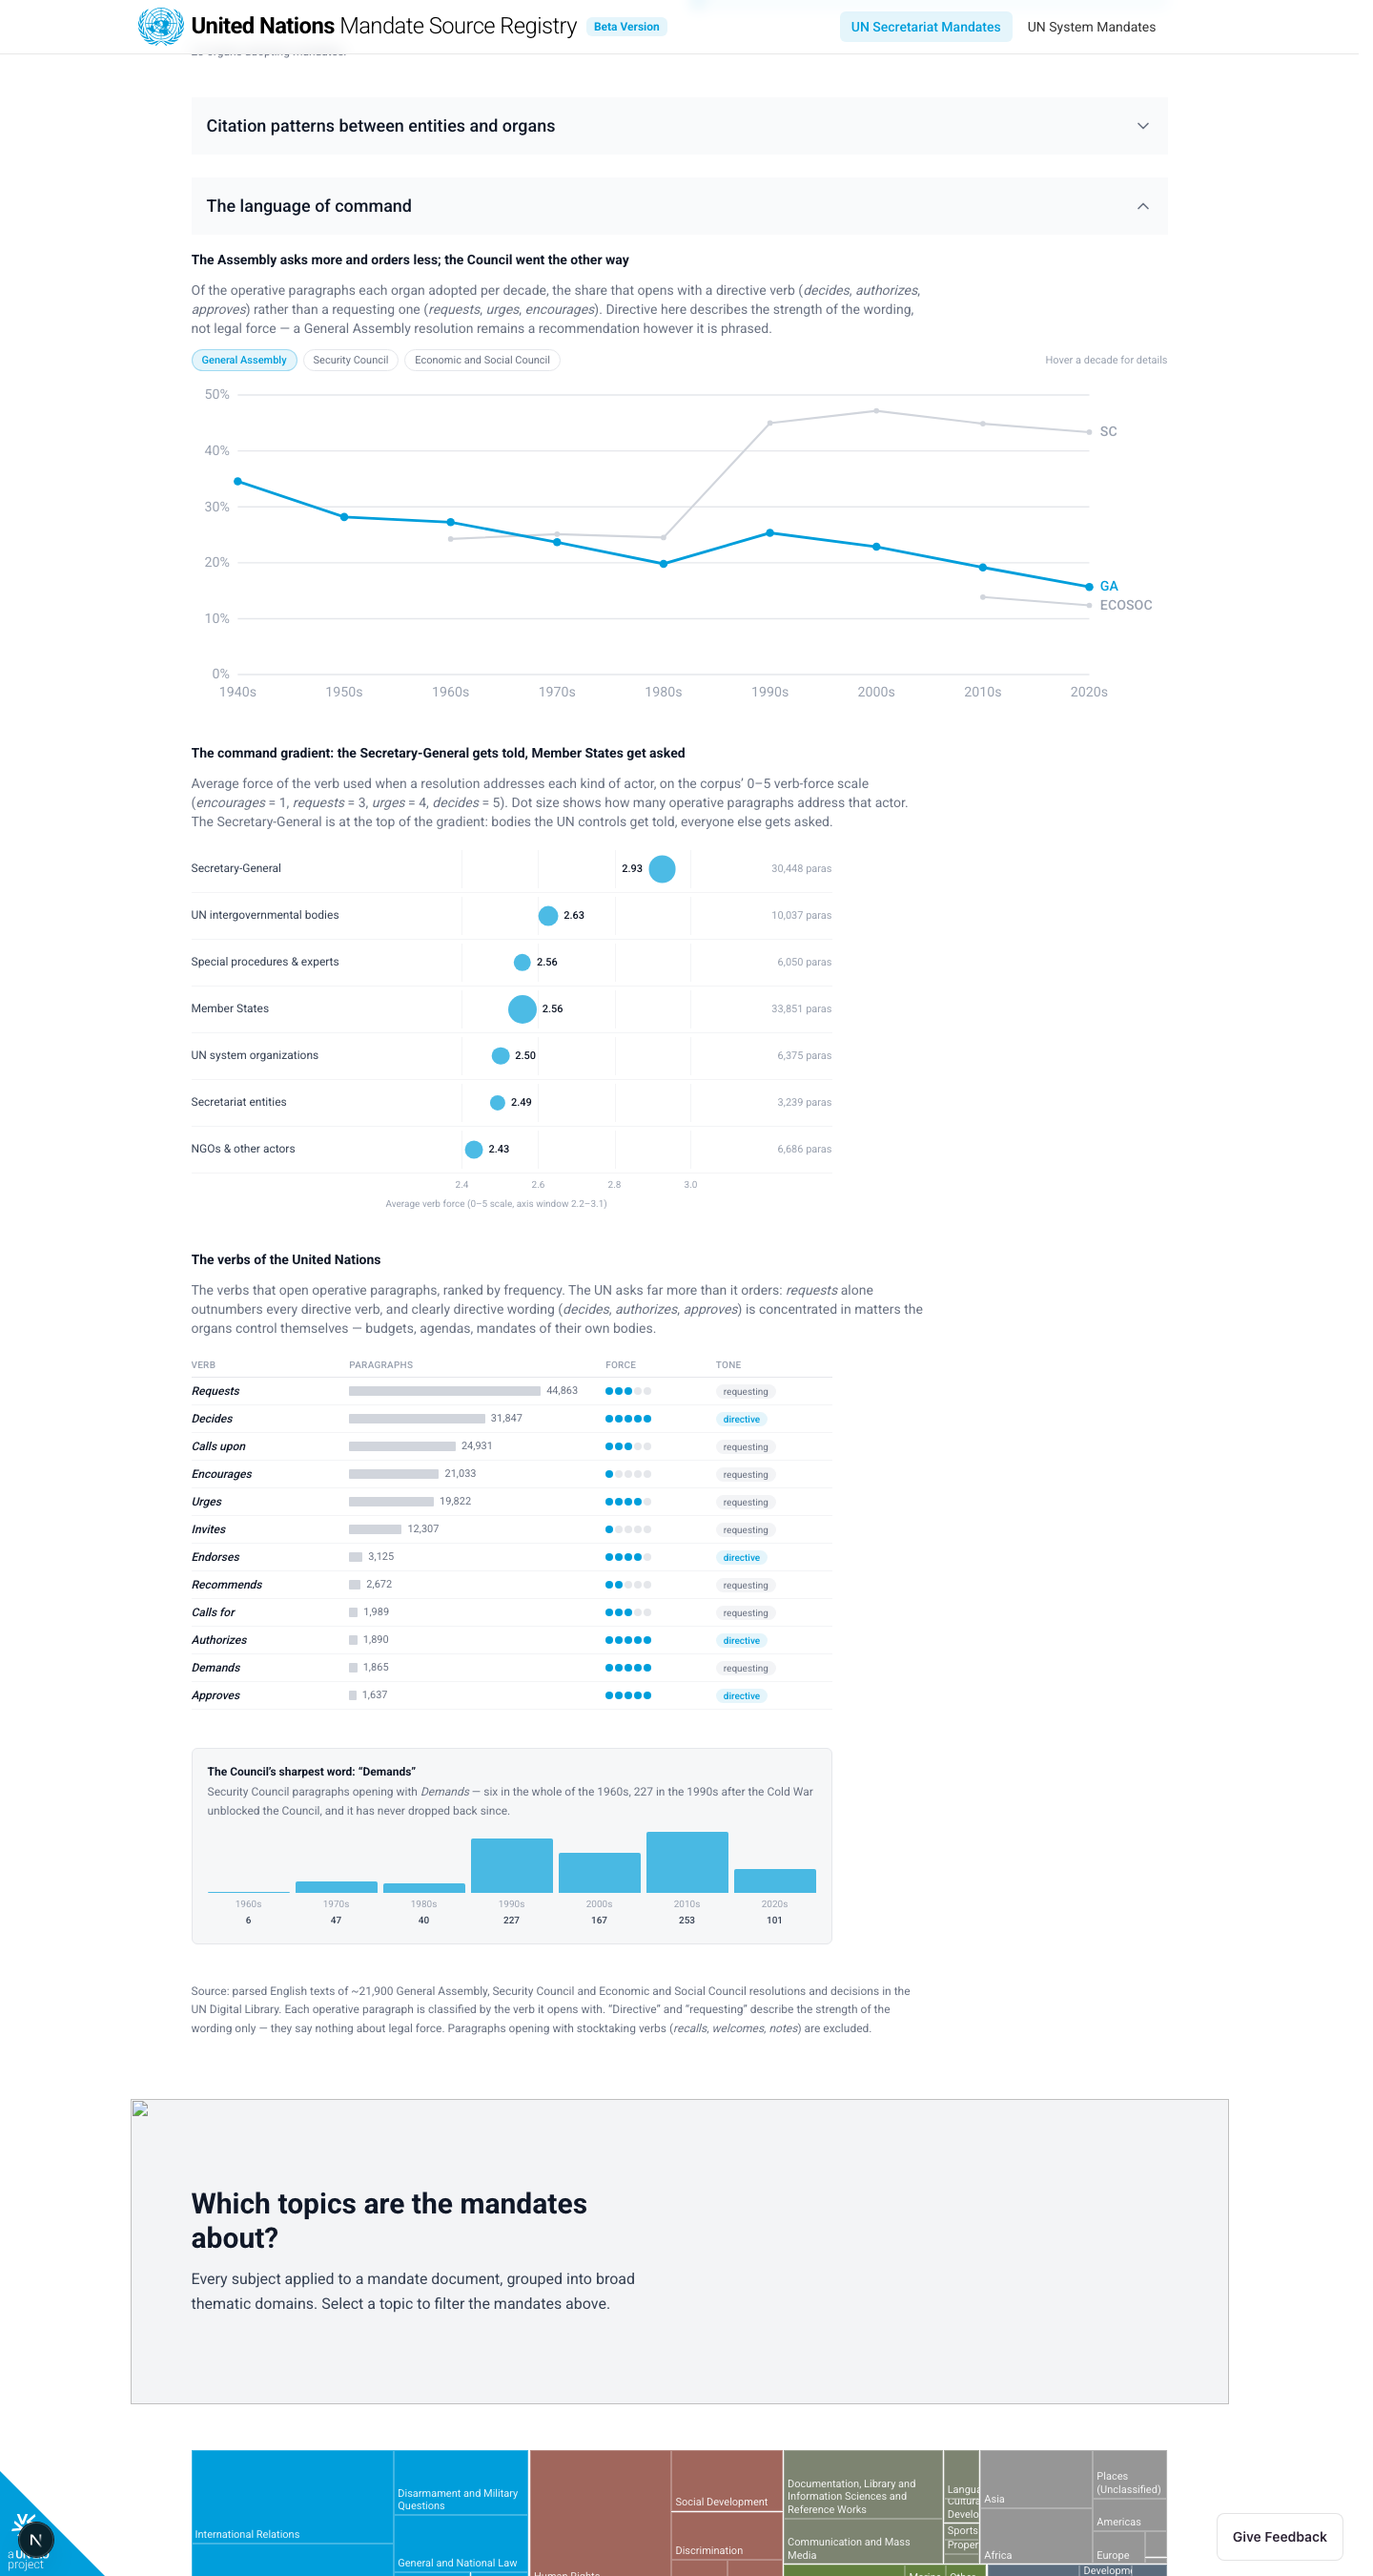
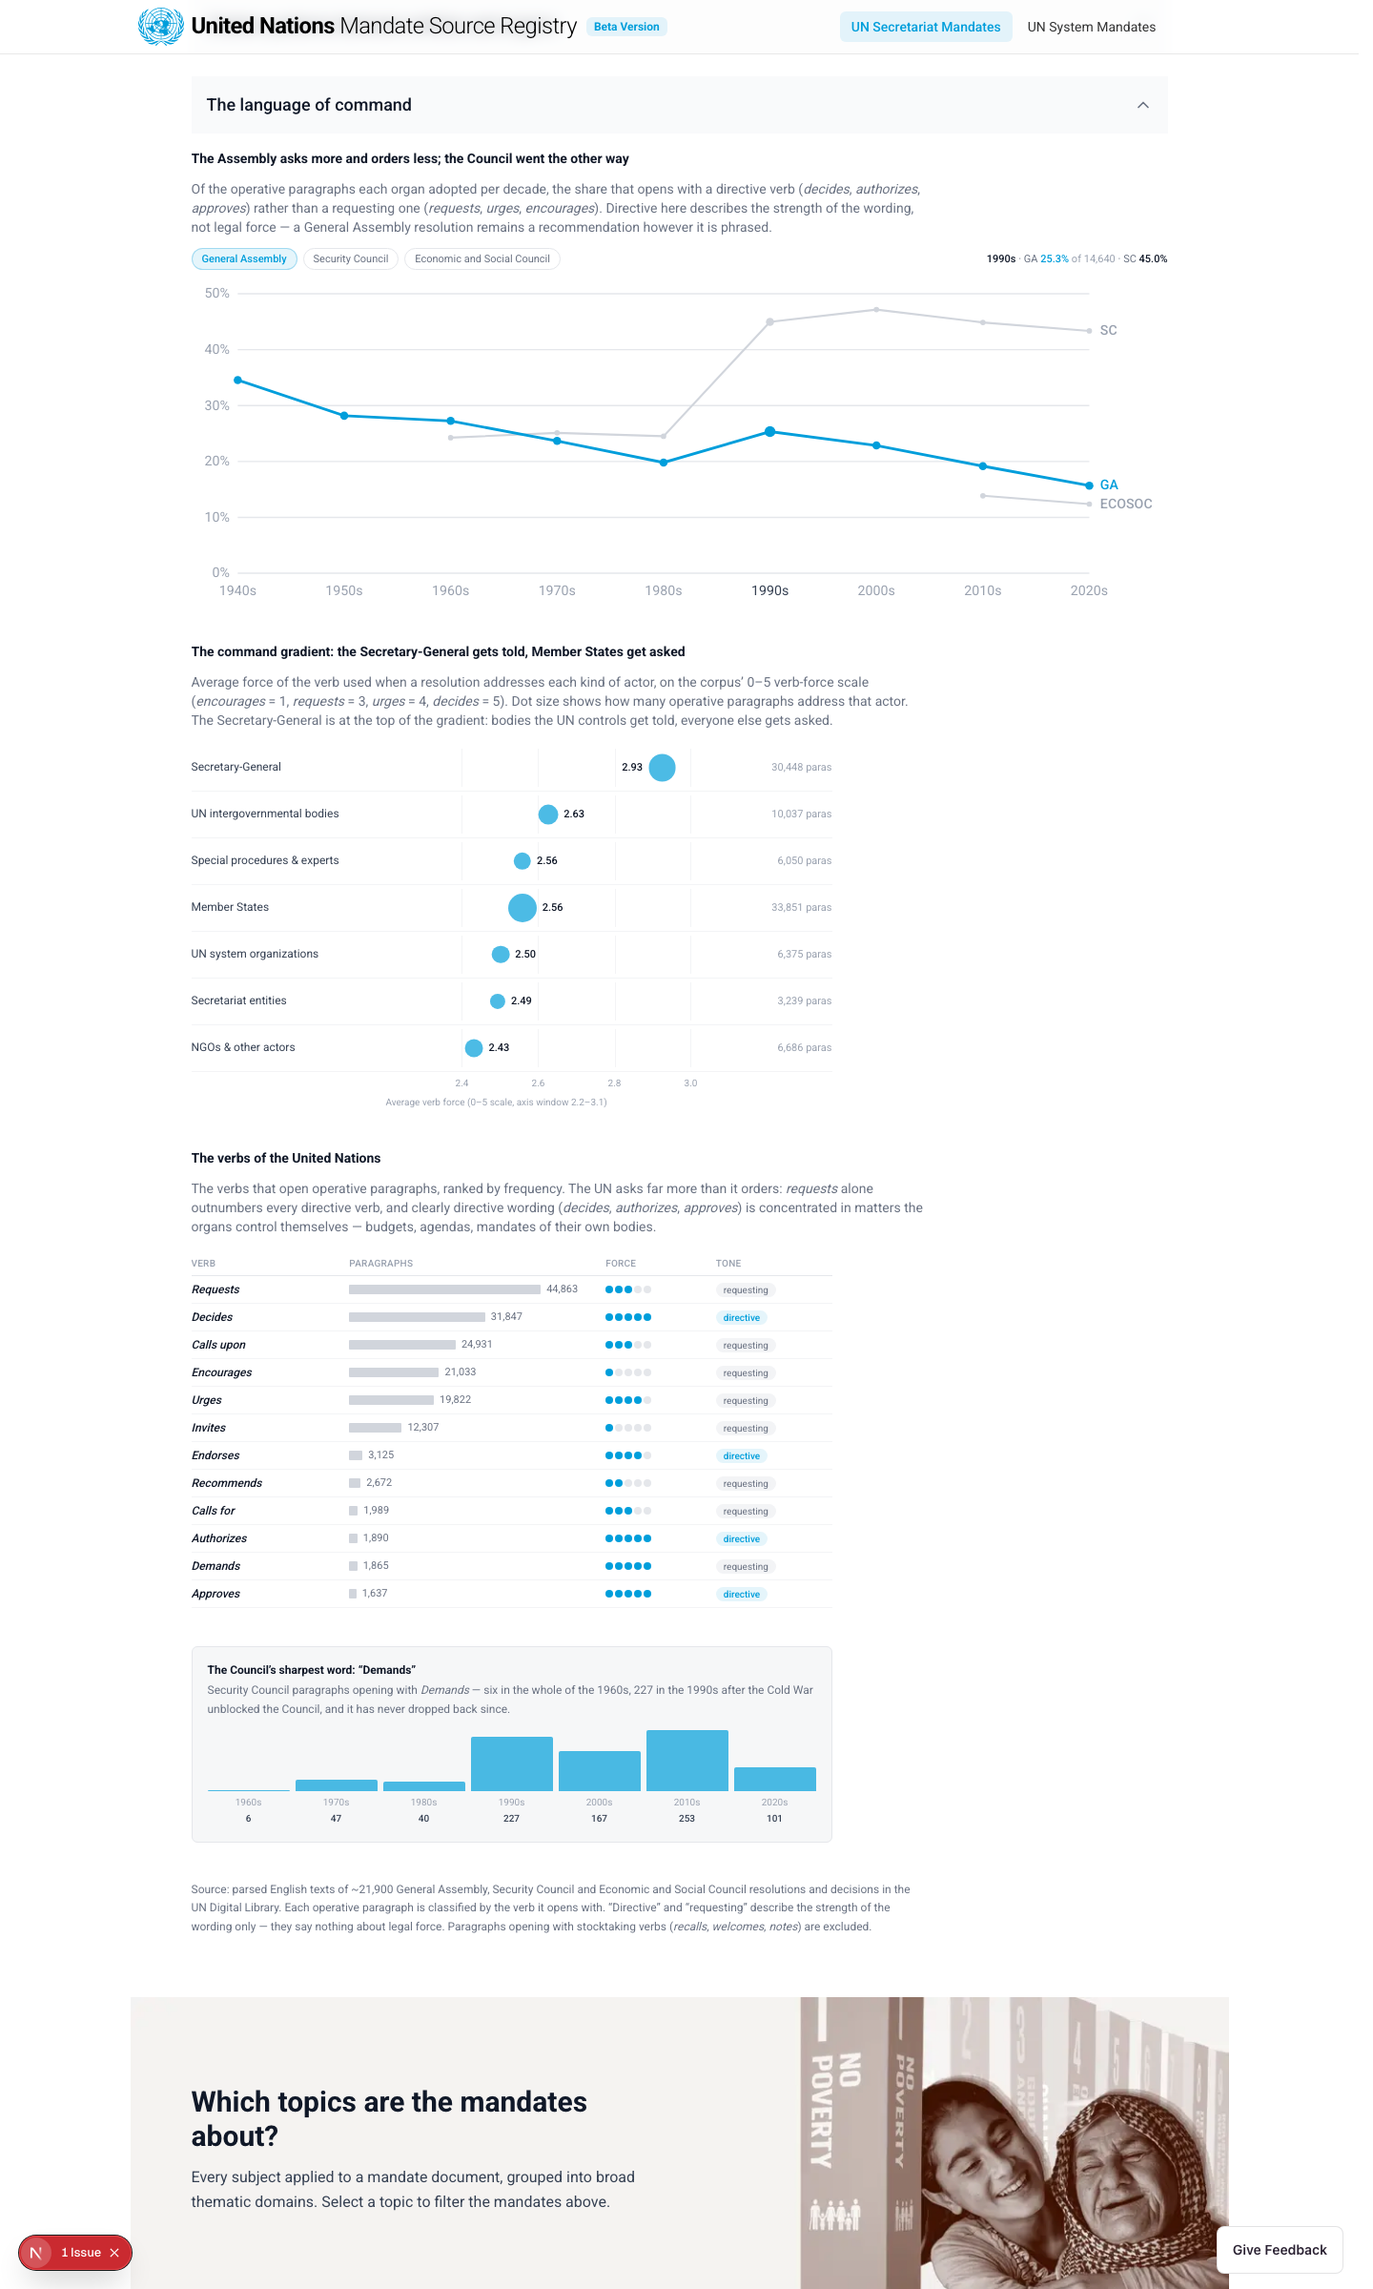
Show the sample size behind the hovered share in the language trend
The hover readout now prints 'GA 25.3% of 14,640' for the selected
organ so a decade share is never read without its denominator; the
selected organ's value is tinted un-blue to tie it to the emphasised
line. Refresh the lens screenshots.

Claude-Session: https://claude.ai/code/session_01Lr7e7TZfrvPGVxwoaWnfFF

diff --git a/website/src/components/LanguageStrengthTrend.tsx b/website/src/components/LanguageStrengthTrend.tsx
@@ -100,6 +100,7 @@ export function LanguageStrengthTrend({
     hoverDecade === null
       ? null
       : BODIES.map(({ body, short }) => ({
+          body,
           short,
           point: series.get(body)?.find((p) => p.decade === hoverDecade),
         })).filter((e) => e.point)
@@ -142,13 +143,24 @@ export function LanguageStrengthTrend({
           {hoverDecade !== null && hoverPoints ? (
             <span>
               <span className="font-medium text-gray-900">{hoverDecade}s</span>
-              {hoverPoints.map(({ short, point }) => (
+              {hoverPoints.map(({ body, short, point }) => (
                 <span key={short}>
                   {' · '}
                   {short}{' '}
-                  <span className="font-medium text-gray-900">
+                  <span
+                    className={`font-medium ${
+                      body === selected ? 'text-un-blue' : 'text-gray-900'
+                    }`}
+                  >
                     {point!.share.toFixed(1)}%
                   </span>
+                  {/* Sample size for the selected organ, so the share is
+                      never read without its denominator. */}
+                  {body === selected && (
+                    <span className="text-gray-400">
+                      {` of ${(point!.directive + point!.hortatory).toLocaleString()}`}
+                    </span>
+                  )}
                 </span>
               ))}
             </span>
